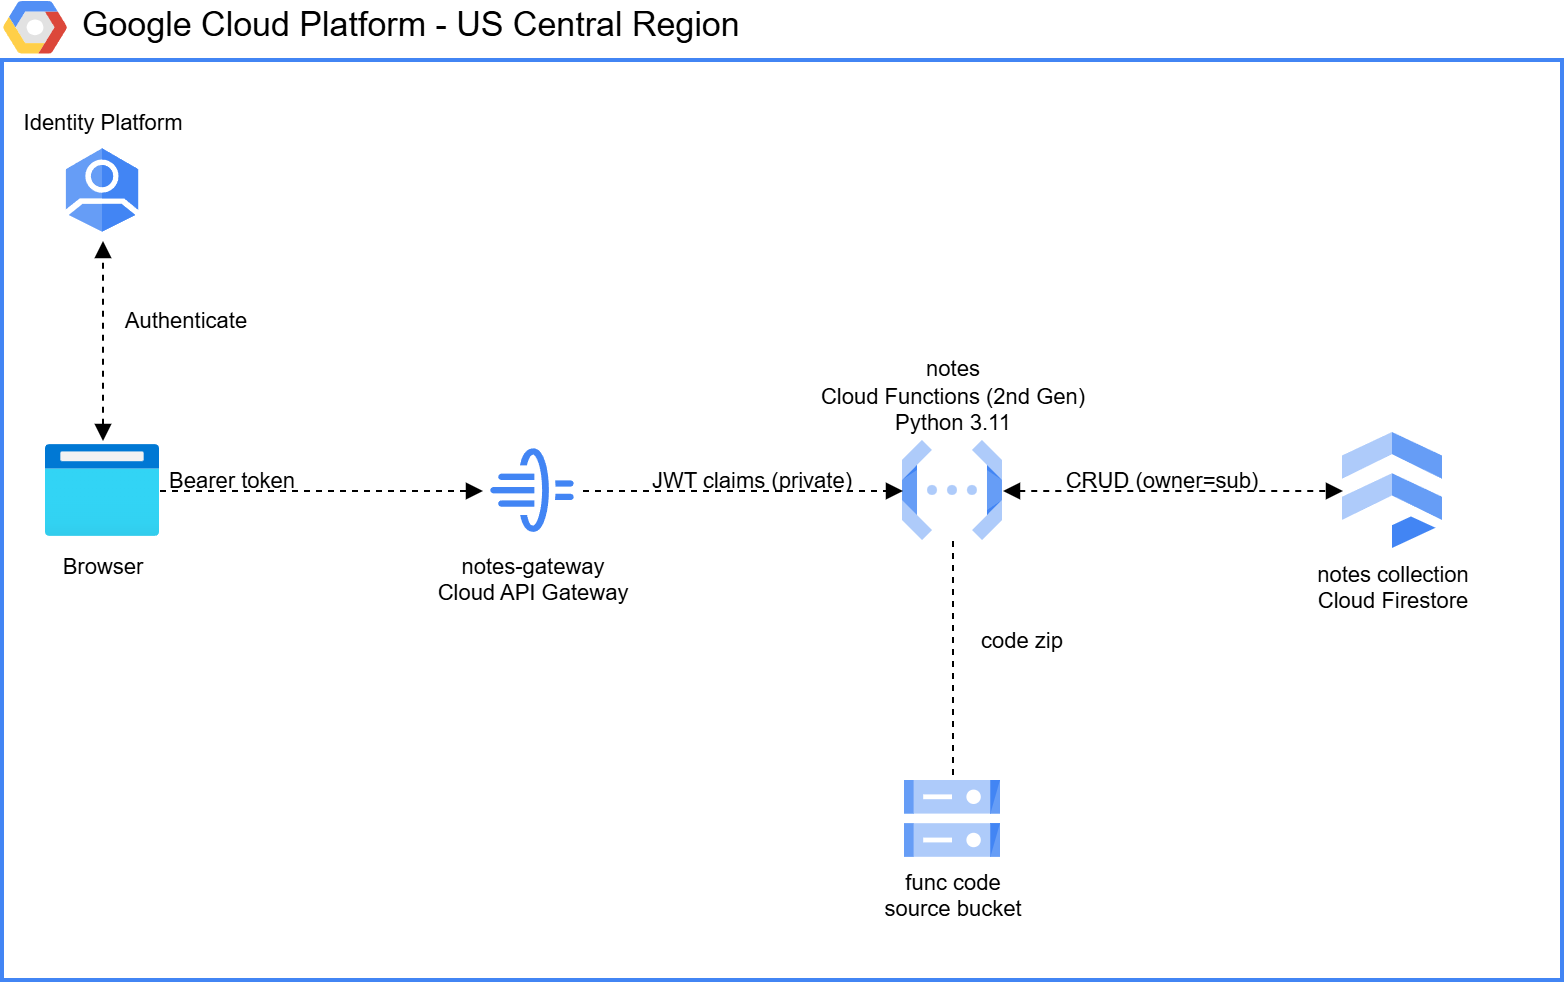
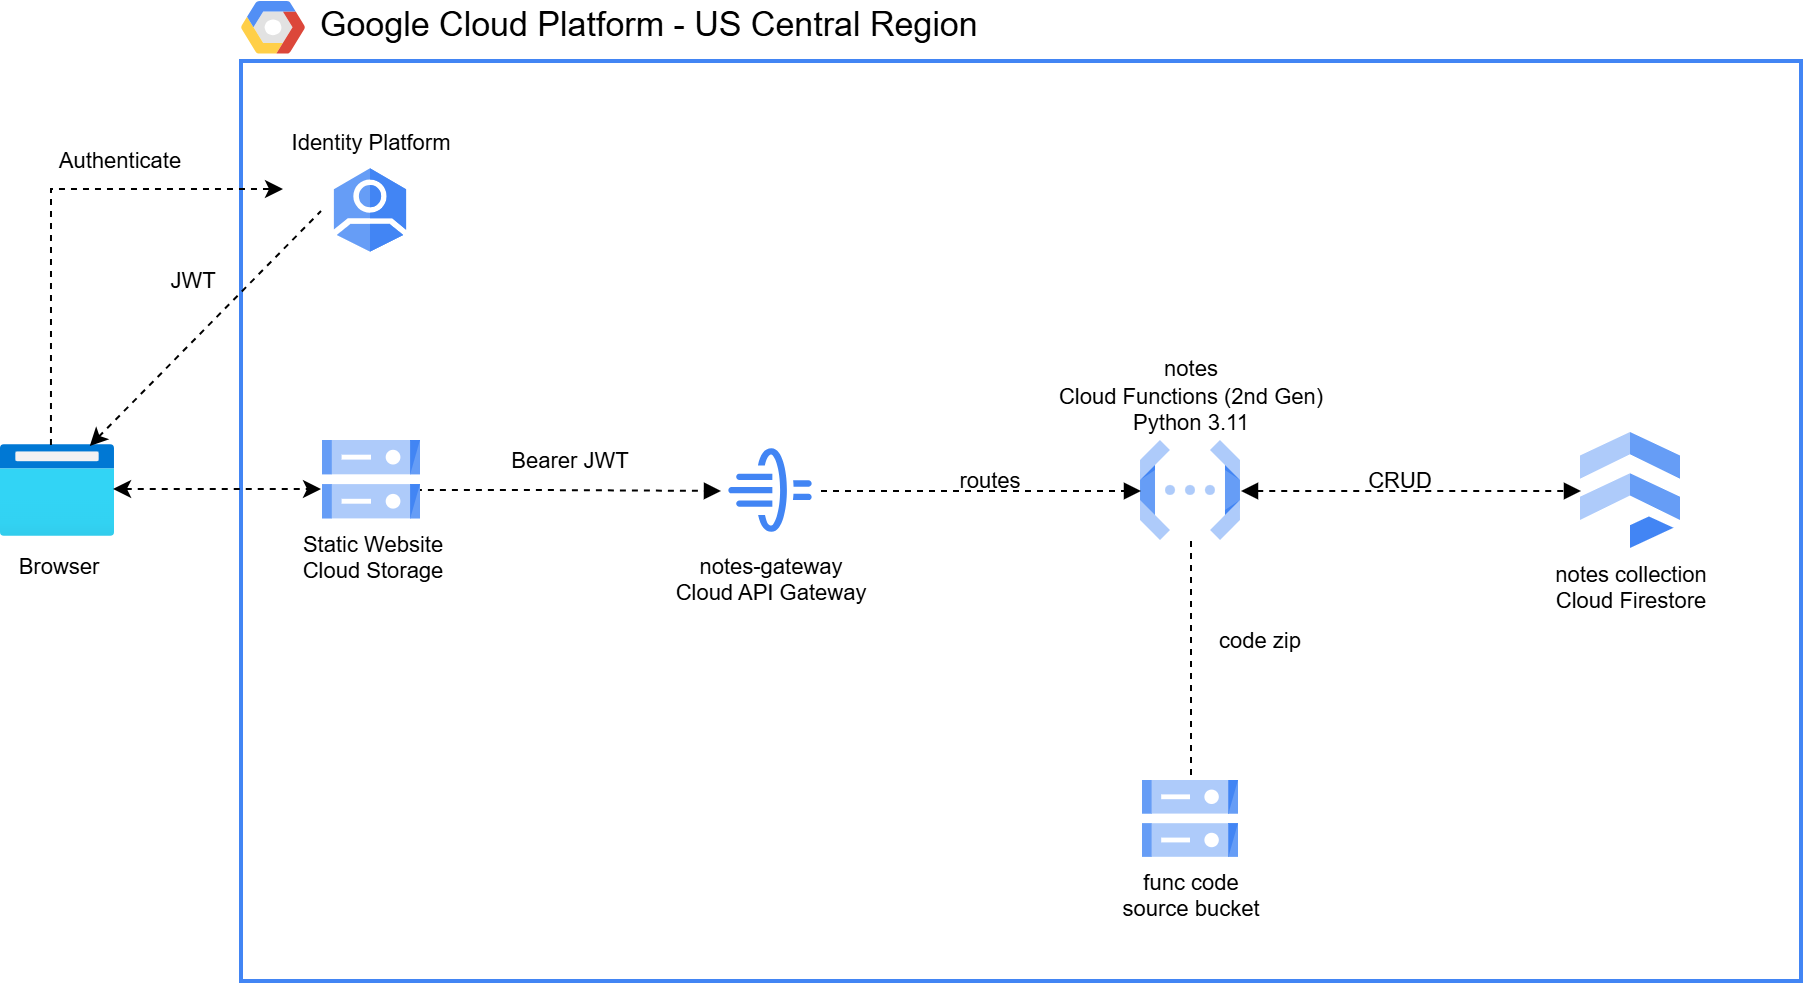
finalize diagrams

diff --git a/00-resources/video-script.md b/00-resources/video-script.md
@@ -4,17 +4,17 @@
 
 ## Introduction
 
-[ Screen recording of the Notes Demo web app — creating, editing, and deleting notes in the browser ]
+[ Show web application log in ]
 
-"Do you need a working serverless API on Google Cloud?
+Do you want a secure, serverless API on Google Cloud?
 
 [ Architecture diagram — walk through it left to right: browser, Cloud Storage, Cloud Function, Firestore ]
 
-"In this project we build a fully serverless notes API using Cloud Functions, Firestore, and Cloud Storage — all provisioned with Terraform and deployed with a single script."
+In this project, we build a secure notes API using Cloud Functions, Firestore, API Gateway, and Identity Platform.
 
 [Terminal running apply.sh — Terraform output flying by, ending with the website URL ]
 
-"Follow along and in minutes you'll have a working API running on Google Cloud."
+Follow along — and in minutes, you’ll have a secure backend with per-user data isolation.
 
 ---
 
@@ -24,17 +24,34 @@
 
 "Let's walk through the architecture before we build."
 
-[ Highlight browser and Cloud Storage bucket ]
+[ Highlight Browser + Identity Platform ]
 
-"The user opens a static web page — which is just an HTML file served directly from a public Cloud Storage bucket."
+“The browser signs in with Identity Platform and gets a bearer token.”
+
+[ Highlight Browser to Gateway ]
+
+“That token goes with each call to the API Gateway.”
+
+[ Highlight Gateway ]
+
+“The gateway validates the token and rejects anything invalid.”
+
+[ Highlight Gateway to Function ]
+
+“For valid requests, it forwards verified JWT claims to the Cloud Functions.”
 
 [ Highlight Cloud Function ]
 
-"The frontend talks to a Cloud Functions over HTTPS. One Python file handles all the routes — POST to create, GET to list, GET by ID, PUT to update, DELETE to remove. "
+“The Cloud Functions are the API compute layer.
+The Functions are implemented in Python, and the HTTP routes are handled directly in the code.”
+
+[ Highlight Function to Firestore ]
+
+“The function uses the authenticated user ID to store notes by user."
 
 [ Highlight Firestore ]
 
-"The backend stores data in Firestore. Each note is a JSON document, and the Cloud Functions read and write directly to it."
+"Firestore stores the notes data, isolated per user.”
 
 ---
 
